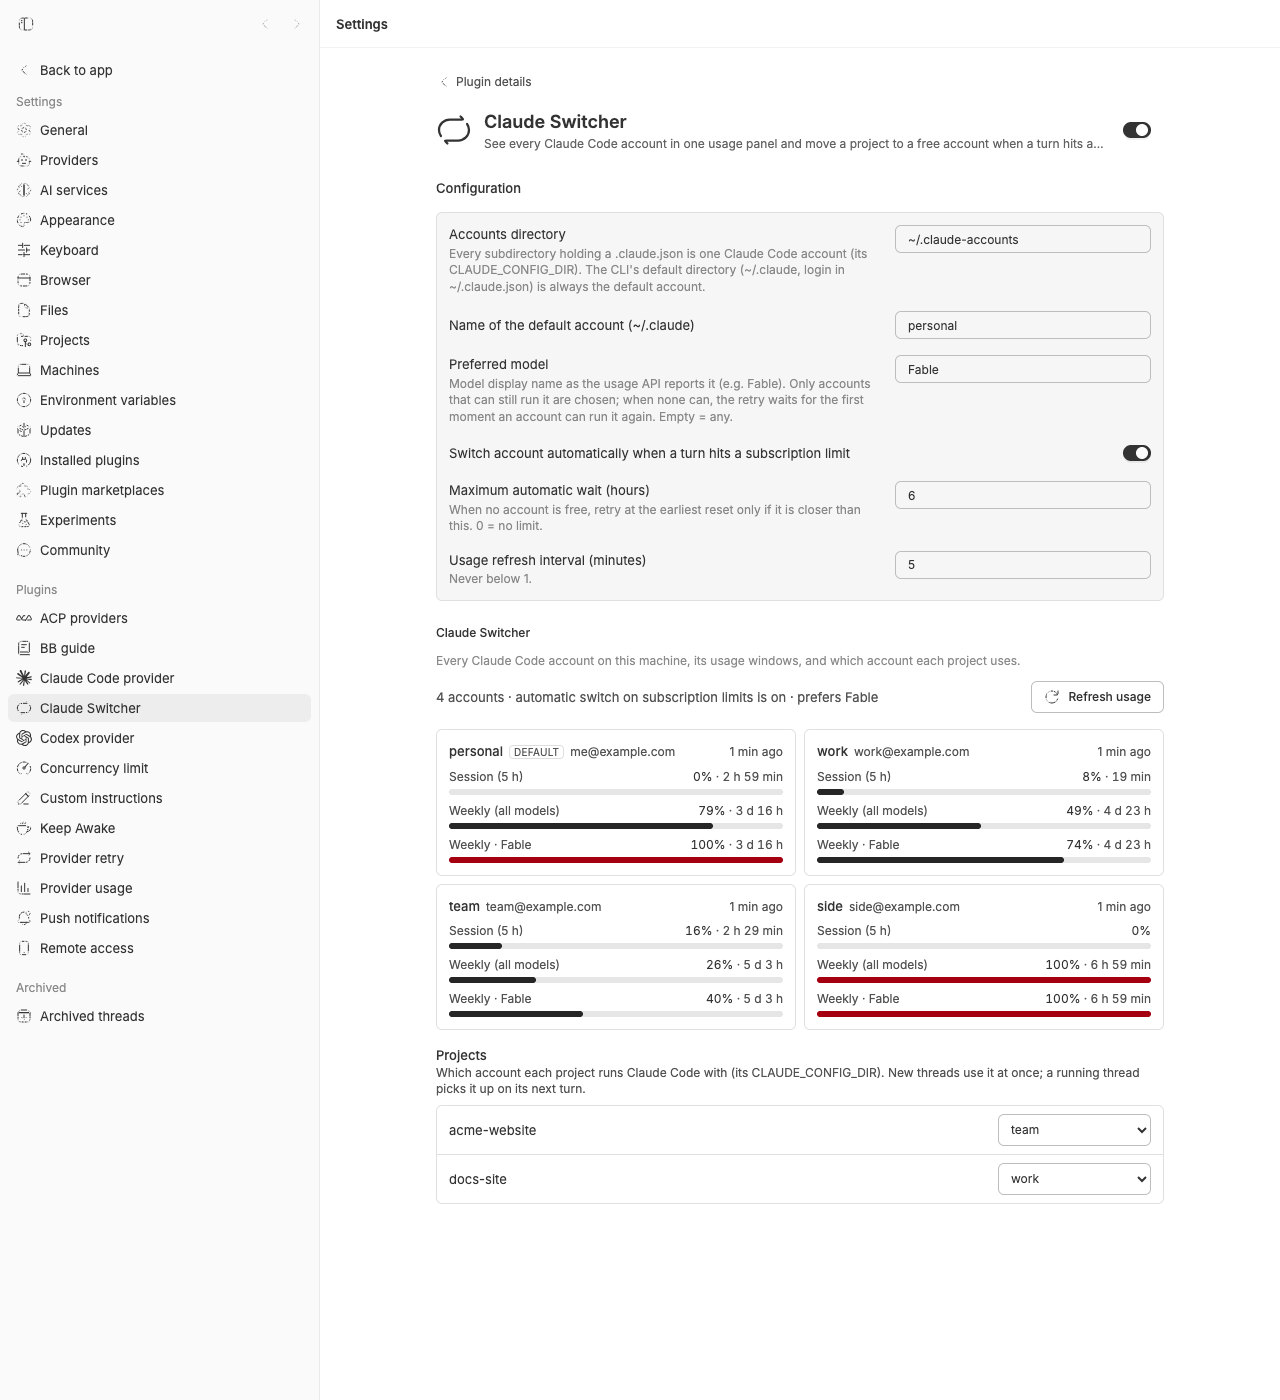
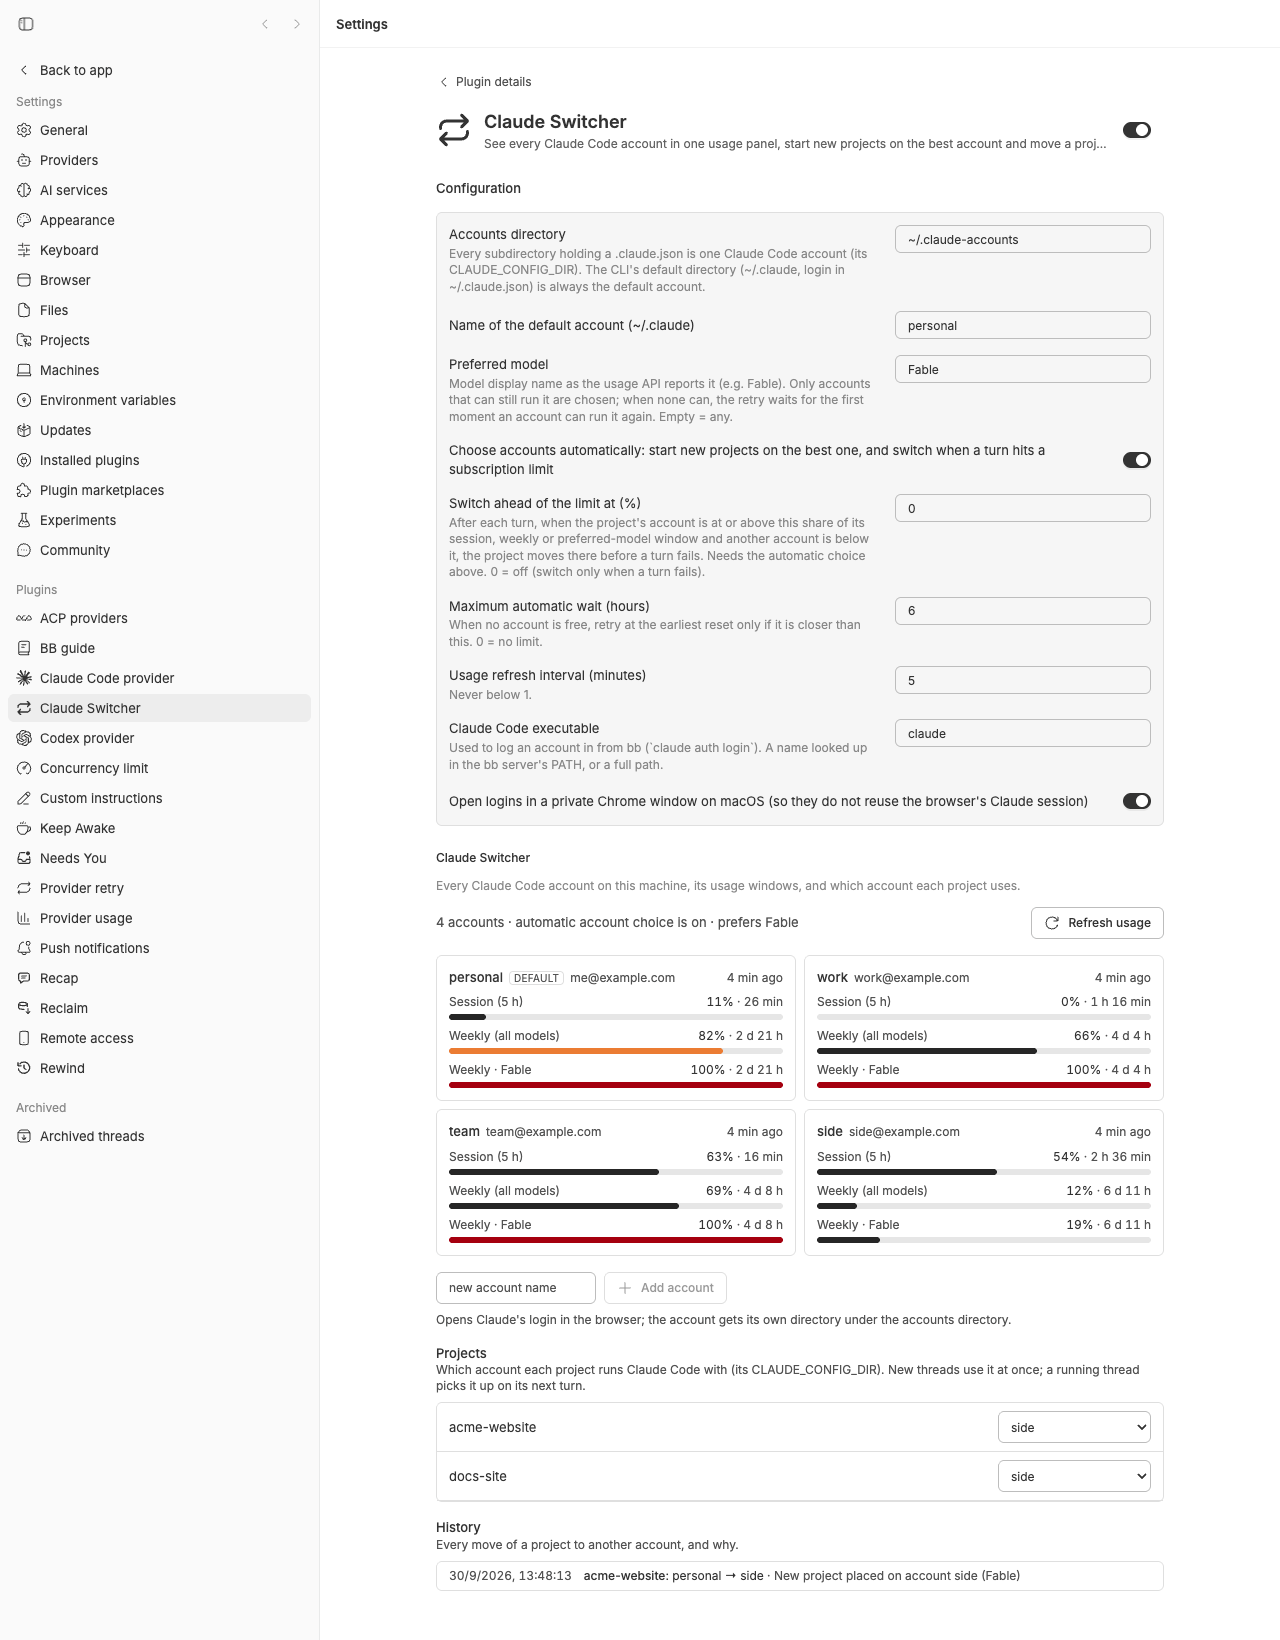
claude-switcher: overview under 4,000 characters, wider thread-header screenshot
Both review requests: the overview is now 3,995 characters (covering 0.2.6)
and thread-header.png is 1359x1314. settings.png refreshed.

diff --git a/overview/claude-switcher.md b/overview/claude-switcher.md
@@ -1,64 +1,59 @@
 Run Claude Code in bb with more than one subscription and spend less time
-watching the limits. This plugin treats `~/.claude` and every subdirectory
-of your accounts directory that holds a Claude Code login as an account,
-measures each one, starts new projects on the best one, and moves a
-project to another account the moment a turn fails on a subscription
-limit.
+watching the limits. The plugin treats `~/.claude` and each subdirectory of
+your accounts directory that holds a Claude Code login as an account, and
+moves projects between them.
 
 ## What you get
 
 - **Every account in Provider usage.** The 5-hour session, the weekly and
-  the per-model weekly windows of each account, next to the usage bb already
-  shows. Refreshed every few minutes and on demand.
+  the per-model weekly windows of each account, with a forecast of when each
+  weekly window runs out at your pace. Refreshed every few minutes and on
+  demand.
 - **Automatic switching.** When a turn fails with a subscription-window rate
-  limit, the plugin picks the best other account and retries the turn at
-  once. When no account is free, it moves the project to the account that
+  limit, or the account refuses it, the plugin retries it at once on the best
+  other account. When none is free, it moves the project to the account that
   frees first and queues the retry for that reset (up to a wait you set).
+- **Switch ahead of the limit, if you want.** Set a percentage and a project
+  whose account ends a turn at or above it moves before the next turn fails.
+  Off by default; needs the automatic choice on.
 - **A good start for new projects.** When a thread is created, a project
-  created after the plugin first ran moves to the best account instead
-  of the default one, and a project whose account is already out moves to
-  another. If the thread's first turn wins the race and fails on the old
-  account, it is retried once on the new one.
-- **The account in every thread.** A Claude Code thread's header shows
-  the project's account with a coloured dot for how much it has left, and
-  a menu to switch now to the best account or to any other.
-- **A picker per project.** In Settings, choose which account each project
-  runs with, or let the plugin manage it. The CLI does the same:
-  `bb claude-switcher use PROJECT ACCOUNT`.
+  created after the plugin first ran moves to the best account, and one
+  whose account is already out moves to another. If the first turn still
+  runs on the old account and fails there, it is retried once on the new one.
+- **The account in every thread.** A Claude Code thread's header shows the
+  project's account with a coloured dot for how much it has left, and a menu
+  to switch now to the best account or to any other.
+- **Accounts and projects in Settings.** Choose the account each project
+  runs with or let the plugin manage it, add an account by name (the plugin
+  sets it up and runs Claude Code's own login), and see every move with its
+  reason. The CLI does the same: `bb claude-switcher use PROJECT ACCOUNT`.
 
 ## How the choice is made
 
 The three Claude Code limits are not interchangeable, so an account is only a
 candidate while its session and its weekly window are both under 100 % and
 the provider reports no lock. Candidates are ordered by the closest weekly
-reset, then by the lowest session use. If you name a preferred model, only
-accounts that can still run it are chosen; when none can, the retry waits for
-the first moment an account can run that model again.
+reset, then by the lowest session use. If you name a preferred model, or
+switch a thread to another model in bb's picker, only accounts that can still
+run that model are chosen; when none can, the retry waits until one can.
 
 ## Requirements
 
-bb 0.44 or later, running on the machine that holds your Claude Code logins
-(macOS keychain, or the credentials file on Linux). The switch is a project
-machine environment variable, so threads that run on another host do not
-follow it. Each account directory must share the session transcripts
-(`projects/`, symlinked from `~/.claude`) and normally the settings, hooks
-and `CLAUDE.md` too, or a thread cannot continue on the new account; the
+bb 0.44 or later, on the machine that holds your Claude Code logins (macOS
+keychain, or the credentials file on Linux). The switch is a project machine
+environment variable, so threads that run on another host do not follow it.
+Each account directory must share the session transcripts (`projects/`,
+symlinked from `~/.claude`) and normally the settings, hooks and `CLAUDE.md`
+too, or a thread cannot continue on the new account; the
 [README](https://github.com/Finolaina/bb-plugin-claude-switcher#setting-up-extra-accounts)
 shows the setup.
 
 ## How it works
 
 One account = one `CLAUDE_CONFIG_DIR`. The plugin reads each directory's
-login from the same place Claude Code keeps it (the macOS keychain, or the
-credentials file elsewhere), queries the usage endpoint Claude Code itself
-uses, and sets `CLAUDE_CONFIG_DIR` as a project machine environment variable
-when it switches. Tokens are sent only to Anthropic's own OAuth and usage
-endpoints, the same ones the Claude Code CLI calls; nothing is sent
-anywhere else.
-
-Make each extra directory once (share `projects/` and the rest first, as the
-README shows), then `CLAUDE_CONFIG_DIR=~/.claude-accounts/work claude` and
-log in; the plugin finds it on the next refresh.
+login from where Claude Code keeps it, queries the usage endpoint Claude Code
+itself uses, and sets `CLAUDE_CONFIG_DIR` as a project machine environment
+variable when it switches.
 
 ## Privacy and terms
 
